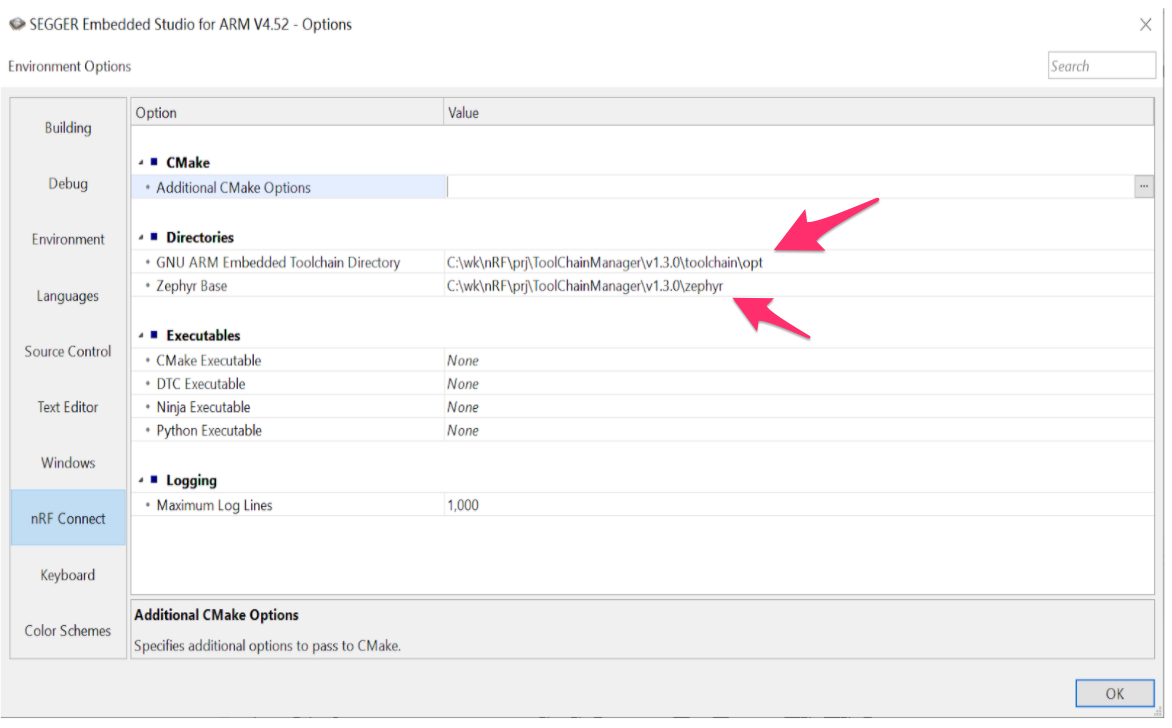
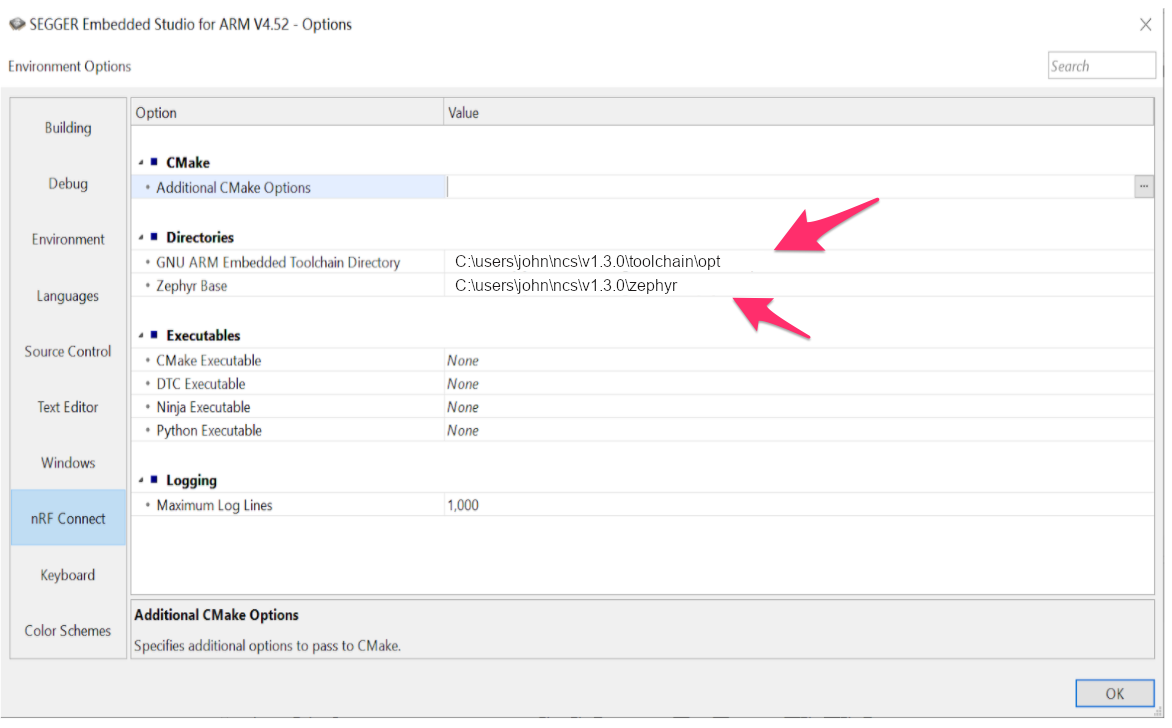
Fixed pebble firmware build on Windows

Changed region(s): [[0.3686, 0.3324, 0.6451, 0.4231]]

diff --git a/docs/developer/hardware/pebble-build-windows.md b/docs/developer/hardware/pebble-build-windows.md
@@ -22,7 +22,7 @@ Launch **nRF Connect** tool you just installed and open **Getting Started Assist
 
 ![](/img/developer/pebble-sdk/firmware_fig2.png)
 
-Install the required tools following the step by step instructions from the **Install the Toolchain** section - ignore the other sections:
+Install the required tools following the step by step instructions from the **Install the Toolchain** section (ignore the other sections):
 
 ![](/img/developer/pebble-sdk/firmware_fig3.png)
 
@@ -40,7 +40,7 @@ Choose to install **nRF Connect SDK v1.3.0**, confirm the installation default p
 
 ![](/img/developer/pebble-sdk/firmware_fig5.png)
 
-When the SDK installation is complete, you should find it installed in `%userprofile%/ncs`, where `%userprofile%` stands for your user home directory in Windows.
+When the SDK installation is complete, you will find it installed in the `c:\users\<your_username>\ncs\` folder.
 
 ## Get the Pebble Firmware source code
 
@@ -51,39 +51,35 @@ cd %userprofile%
 git clone https://github.com/iotexproject/pebble-firmware.git
 ```
 
-delete the asset_tracker demo application folder that comes pre-installed with the SDK:
-
-```
-rmdir /s /q %userprofile%/ncs/v1.3.0/nrf/applications/asset_tracker
-```
-
-and replace it with the Pebble Tracker firmware application folder:
-
-```
-xcopy %userprofile%/pebble-firmware/2020poc/nrf/applications/asset_tracker %userprofile%/ncs/v1.3.0/nrf/applications /E /H
-```
-
-## Build the firmware with Embedded Studio IDE
+## Build the firmware within Embedded Studio IDE
 
 - Download and install the [Embedded Studio IDE (v4.5.2)](https://www.segger.com/downloads/embedded-studio/Setup_EmbeddedStudio_ARM_v452_win_x64.exe)
 
 ### Configure Embedded Studio Toolchain paths
 
-The compiler toolchain paths in Embedded Studio should be already set, just make sure they are configured as follows:
+The compiler toolchain paths in Embedded Studio should be already set, just make sure they are configured correctly:
 
 - Launch the Embedded Studio IDE and choose "Options" under the "Tools" menu
 - Choose "nRF Connect" on the left side of the "Option" window
-- Locate "Directories" section and configure "GNU ARM Embedded Toolchain Directory" and "Zephyr Base" to the corresponding directories, respectively
+- Locate "Directories" section and configure "GNU ARM Embedded Toolchain Directory" and "Zephyr Base" to the corresponding directories, respectively (see the image):
 
 ![](/img/developer/pebble-sdk/firmware_fig6.png)
 
-### Build the Pebble Tracker Application
+### Open Pebble Tracker Application
 
 The Pebble App project is configured as follows:
 
 - Launch the Embedded Studio IDE and choose "Open nRF Connect SDK Project..." under the "File" menu
 - Configure the paths of "CMakeLists.txt" and "Board Directory" and set "Board Name" to "thingy91_nrf9160ns"
   ![](/img/developer/pebble-sdk/firmware_fig7.png)
+
+### Build the firmware
+
+Choose **Build Solution** from the **Build** menu to build the firmware: check out the output panel for the end of the compilation.
+
+At the end of the build process you will find the new Pebble Tracker firmare file at:
+
+`C:\users\<your_username>\pebble-firmware\nrf\applications\asset_tracker\build_thingy91_nrf9160ns\zephyr\app_signed.hex`
 
 ## Build the Pebble Tracker Application using Command Line
 
@@ -104,27 +100,3 @@ west build -b thingy91_nrf9160ns
 ```
 
 After the project is compiled successfully, you can flash the new Pebble firmware that is available at `~/pebble-firmware/2020poc/nrf/applications/asset_tracker/build/zephyr/merged.hex`.
-
-## Configure the firmware before the build
-
-Optionally, firmware parameters (e.g. MQTT parameters) can be customized before building the software.
-
-### Configure the firmware in Embedded Studio
-
-From the Embedded Studio, before starting the build process, choose **Configure nRF Connect SDK Project...** int the **Project** menu, and choose **menuconfig** in the pop-up window. You can use the search box to quickly locate te parameters you want to customize, e.g. and search "mqtt" to customize MQTT specific parameters:
-
-![](/img/developer/pebble-sdk/firmware_fig8.png)
-
-### Configure the firmware from command line
-
-From command line, you can just run the following commands in the Firmware application folder
-
-```sh
-cd %userprofile%/ncs/v1.3.0/nrf/applications/asset_tracker
-# Make sure to remove any previously created build directory
-rmdir /s /q build
-# Start the command line configuration tool
-west build -t menuconfig -b thingy91_nrf9160ns
-```
-
-this will start the configuration program from command line, allowing you to interactively set all the build configuration values for the firmware.
